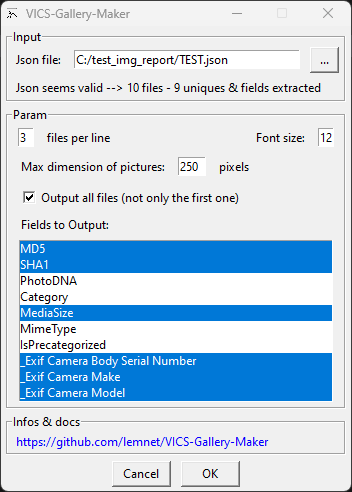
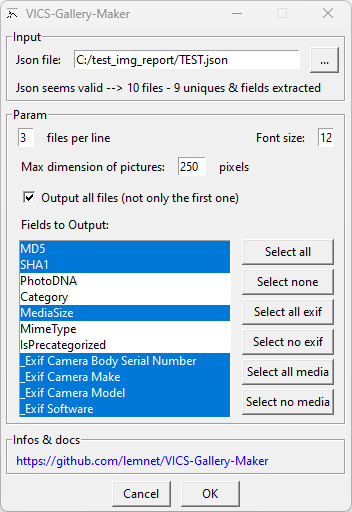
added button to manage selection

diff --git a/VICS-Gallery-Maker.py b/VICS-Gallery-Maker.py
@@ -65,6 +65,12 @@ def browse_button():
             for item in unique_items:
                 prop_listbox.insert(tk.END, item)
             ok_button.config(state=tk.NORMAL)
+            select_all_button.config(state=tk.NORMAL)
+            select_none_button.config(state=tk.NORMAL)
+            select_all_exif_button.config(state=tk.NORMAL)
+            select_no_exif_button.config(state=tk.NORMAL)
+            select_all_media_button.config(state=tk.NORMAL)
+            select_no_media_button.config(state=tk.NORMAL)
         else:
             count_display_label.config(text="Json doesn't seem valid")
             ok_button.config(state=tk.DISABLED)
@@ -174,11 +180,49 @@ def write_html_footer(html_file_path):
 def http_callback(url):
     webbrowser.open_new(url)
 
+def select_all():
+    prop_listbox.select_set(0, tk.END)
+
+def select_none():
+    prop_listbox.select_clear(0, tk.END)
+
+def select_all_exif():
+    values = prop_listbox.get(0, tk.END)
+    i = 0
+    for value in values:
+        if value.startswith("_Exif "):
+            prop_listbox.select_set(i)
+        i += 1
+
+def select_no_exif():
+    values = prop_listbox.get(0, tk.END)
+    i = 0
+    for value in values:
+        if value.startswith("_Exif "):
+            prop_listbox.select_clear(i)
+        i += 1
+
+def select_all_media():
+    values = prop_listbox.get(0, tk.END)
+    i = 0
+    for value in values:
+        if value.startswith("_MediaFiles "):
+            prop_listbox.select_set(i)
+        i += 1
+
+def select_no_media():
+    values = prop_listbox.get(0, tk.END)
+    i = 0
+    for value in values:
+        if value.startswith("_MediaFiles "):
+            prop_listbox.select_clear(i)
+        i += 1
+
 
 # Create the main window
 form = tk.Tk()
 form.title("VICS-Gallery-Maker")
-form.geometry("350x465")
+form.geometry("350x485")
 form.resizable(False, False)
 
 input_labelframe = tk.LabelFrame(form, text="Input")
@@ -224,9 +268,21 @@ all_files_Checkbutton = tk.Checkbutton(param_frame3, anchor="w", text="Output al
 all_files_Checkbutton.select()
 all_files_Checkbutton.pack(side=tk.TOP,padx=5, pady=2, fill="x")
 fields_label = tk.Label(param_frame3,anchor="w", text="Fields to Output:")
-fields_label.pack(padx=5, pady=2, fill="x")
-prop_listbox = tk.Listbox(param_frame3, selectmode=tk.MULTIPLE)
-prop_listbox.pack(side=tk.BOTTOM,padx=5, pady=2, fill="x")
+fields_label.pack(side=tk.TOP,padx=5, pady=2, fill="x")
+prop_listbox = tk.Listbox(param_frame3, selectmode=tk.MULTIPLE, width=35, height=11)
+prop_listbox.pack(side=tk.LEFT,padx=5, pady=2, fill="x")
+select_all_button = tk.Button(param_frame3, text="Select all", command=select_all, state=tk.DISABLED)
+select_all_button.pack(padx=5, pady=2, fill="x")
+select_none_button = tk.Button(param_frame3, text="Select none", command=select_none, state=tk.DISABLED)
+select_none_button.pack(padx=5, pady=2, fill="x")
+select_all_exif_button = tk.Button(param_frame3, text="Select all exif", command=select_all_exif, state=tk.DISABLED)
+select_all_exif_button.pack(padx=5, pady=2, fill="x")
+select_no_exif_button = tk.Button(param_frame3, text="Select no exif", command=select_no_exif, state=tk.DISABLED)
+select_no_exif_button.pack(padx=5, pady=2, fill="x")
+select_all_media_button = tk.Button(param_frame3, text="Select all media", command=select_all_media, state=tk.DISABLED)
+select_all_media_button.pack(padx=5, pady=2, fill="x")
+select_no_media_button = tk.Button(param_frame3, text="Select no media", command=select_no_media, state=tk.DISABLED)
+select_no_media_button.pack(padx=5, pady=2, fill="x")
 
 button_frame = tk.Frame(form)
 button_frame.pack(side=tk.BOTTOM,padx=5, pady=2)
